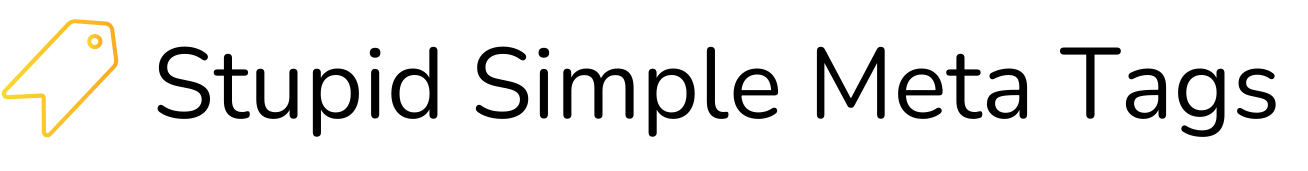
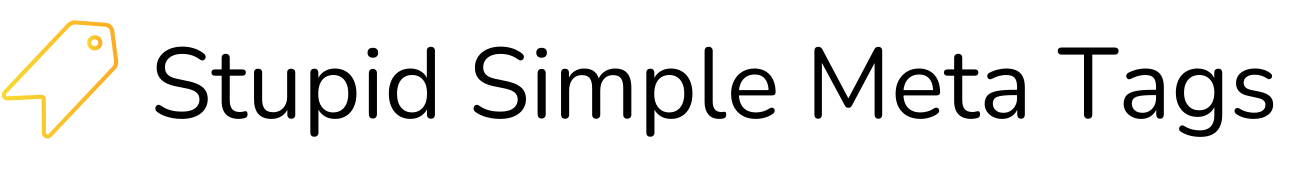
Add License things

diff --git a/pages/feedback/template.php b/pages/feedback/template.php
@@ -4,16 +4,20 @@ $meta_configuration_list = $_POST['ssmt_basic_settings_meta_configuration_list']
 <div class="wrap">
     <div style="text-align: center; margin-bottom: 20px;">
         <a href="https://puzzlers-labs.com" target="_blank">
-            <img src="<?php echo SSMT_PLUGIN_URL . 'assets/images/ssmt_mini_banner.png'; ?>" alt="Puzzlers Labs Logo" style="max-width: 600px;">
+            <?php if (ssmt_is_licensed()): ?>
+                <img src="<?php echo SSMT_PLUGIN_URL . 'assets/images/ssmt_licensed_mini_banner.png'; ?>" alt="Puzzlers Labs Logo" style="max-width: 600px;">
+            <?php else: ?>
+                <img src="<?php echo SSMT_PLUGIN_URL . 'assets/images/ssmt_mini_banner.png'; ?>" alt="Puzzlers Labs Logo" style="max-width: 600px;">
+            <?php endif; ?>
         </a>
     </div>
 
     <!-- Links Section -->
     <div style="text-align: center; margin-bottom: 30px;">
         <p>
-            <a href="https://example.com/contact" target="_blank">Contact</a> |
+            <!-- <a href="https://example.com/contact" target="_blank">Contact</a> | -->
             <a href="https://example.com/privacy-policy" target="_blank">Privacy Policy</a> |
-            <a href="https://github.com/example/repo" target="_blank">GitHub Repository</a>
+            <a href="https://github.com/puzzlers-labs/stupid_simple_meta_tags" target="_blank">GitHub Repository</a>
         </p>
     </div>
 
@@ -48,18 +52,41 @@ $meta_configuration_list = $_POST['ssmt_basic_settings_meta_configuration_list']
             <tr>
                 <td><strong>License Status:</strong></td>
                 <td>
-                    <?php echo esc_html(get_option('my_plugin_license_status', 'Unlicensed')); ?>
-                    <span style="color: red; margin-left: 5px;">
-                        &times;
-                    </span>
-                    <a href="puzzlers-labs.com"><i>(Register for free)</i></a>
+                    <?php if (ssmt_is_licensed()): ?>
+                        <span style="color: green;">
+                            Licensed
+                        </span>
+                        <span style="color: green; margin-left: 5px;">
+                            &#10003;
+                        </span>
+                    <?php else: ?>
+                        <span style="color: red;">
+                            Unlicensed
+                        </span>
+                        <span style="color: red; margin-left: 5px;">
+                            &times;
+                        </span>
+                        <a href="puzzlers-labs.com"><i>(Register for free)</i></a>
+                    <?php endif; ?>
                 </td>
             </tr>
         </tbody>
     </table>
 
-    <!-- Rating Form -->
     <div style="margin-top: 40px;">
+        <h2>Contact</h2>
+        <p>
+            You can contact us at <a href="mailto:hello@puzzlers-labs.com">Puzzlers Labs</a> for any queries or feedback.
+            <br />
+            Please share the technical information above when contacting us for a faster response.
+        </p>
+        <p>
+            Alternatively, you can also raise an issue on the <a href="https://github.com/puzzlers-labs/stupid_simple_meta_tags" target="_blank">GitHub Repository</a>.
+        </p>
+
+    </div>
+
+    <!-- <div style="margin-top: 40px;">
         <h2>Rate This Plugin</h2>
         <form method="post" action="">
             <?php wp_nonce_field('plugin_feedback_nonce', '_wpnonce'); ?>
@@ -88,5 +115,5 @@ $meta_configuration_list = $_POST['ssmt_basic_settings_meta_configuration_list']
                 <button type="submit" class="button button-primary">Submit Feedback</button>
             </p>
         </form>
-    </div>
+    </div> -->
 </div>

diff --git a/hooks/initialize.php b/hooks/initialize.php
@@ -60,7 +60,9 @@ function ssmt_render_meta_tags() {
 
 function ssmt_get_icon() {
     $admin_color = get_user_option('admin_color');
-    // return SSMT_PLUGIN_URL . "assets/images/ssmt_licensed.png";
+    if (ssmt_is_licensed()) {
+        return SSMT_PLUGIN_URL . "assets/images/ssmt_licensed.png";
+    }
     if (in_array($admin_color, ['light'])) {
         return SSMT_PLUGIN_URL . "assets/images/ssmt_dark.png";
     }

diff --git a/includes/common.php b/includes/common.php
@@ -37,6 +37,10 @@ function ssmt_form_submission_validator() {
     }
 }
 
+function ssmt_is_licensed() {
+    return true;
+}
+
 // function stupid_simple_meta_tags_init() {
 
 //     add_action('enqueue_block_editor_assets', 'enqueue_custom_editor_plugin');
